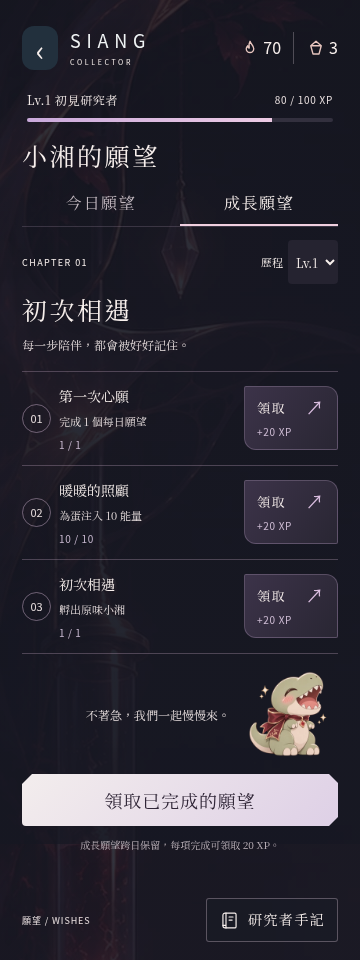
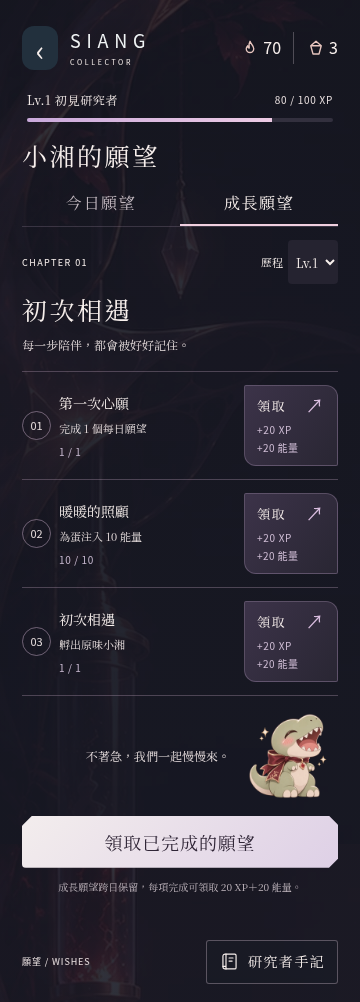
Award growth energy with one-time legacy backfill

diff --git a/js/app.js b/js/app.js
@@ -4,7 +4,7 @@ import { loadState, updateState, resetState, newEgg } from './state.js';
 import { createRoom, residentsFor, saveResidents, welcomeResident, ROOM_KEY, ROOM_LIMIT } from './room.js';
 import { WISH_REWARD, PASS_RATIO, wishesFor, todayKey, analyzePhoto } from './wishes.js';
 import { createMissions } from './missions.js';
-import { DAILY_XP, GROWTH_XP, XP_PER_LEVEL, playerLevel, rankTitle, ensureDaily, completeDaily, growthGoals, goalProgress, claimGrowth } from './progression.js';
+import { DAILY_XP, GROWTH_XP, GROWTH_ENERGY, XP_PER_LEVEL, playerLevel, rankTitle, ensureDaily, completeDaily, growthGoals, goalProgress, claimGrowth } from './progression.js';
 import { PRESENTER_KEY, selectedPresenter, presenterCopy } from './wish-presenter.js';
 
 const $ = (id) => document.getElementById(id);
@@ -24,7 +24,8 @@ function daysSince(iso) {
   return Math.max(0, Math.floor((Date.now() - new Date(iso).getTime()) / 86400000));
 }
 
-let state = (await updateState(() => {})).state;
+const initialSave = await updateState(() => {});
+let state = initialSave.state;
 if (!state.egg) state.egg = newEgg('ordinary'); // 培育槽不留空：孵完就送來下一顆
 let eggView = null;
 let displayedEggId = null;
@@ -250,8 +251,9 @@ function renderGrowth() {
     const count = document.createElement('p'); count.className = 'growth-goal__progress'; count.textContent = `${progress.current} / ${goal.target}`; content.append(count);
     if (progress.claimed) { const label = document.createElement('span'); label.textContent = '✓ 已領取'; status.append(label); }
     else if (progress.complete) {
-      const claim = document.createElement('button'); claim.type = 'button'; claim.className = 'growth-claim'; claim.dataset.goal = goal.id; claim.setAttribute('aria-label', `領取 ${goal.title}的 ${GROWTH_XP} XP 獎勵`);
+      const claim = document.createElement('button'); claim.type = 'button'; claim.className = 'growth-claim'; claim.dataset.goal = goal.id; claim.setAttribute('aria-label', `領取 ${goal.title}的 ${GROWTH_XP} XP 與 ${GROWTH_ENERGY} 能量獎勵`);
       const reward = document.createElement('span'); reward.className = 'growth-claim__reward'; reward.textContent = `+${GROWTH_XP} XP`;
+      const energy = document.createElement('span'); energy.className = 'growth-claim__energy'; energy.textContent = `+${GROWTH_ENERGY} 能量`; reward.append(energy);
       const action = document.createElement('span'); action.className = 'growth-claim__action'; action.textContent = '領取';
       const arrow = document.createElement('span'); arrow.className = 'growth-claim__arrow'; arrow.textContent = '↗'; arrow.setAttribute('aria-hidden', 'true');
       action.append(arrow); claim.append(action, reward); claim.disabled = claimBusy; status.append(claim);
@@ -687,7 +689,7 @@ $('growth-list').addEventListener('click', async event => {
   try {
     const transaction = await updateState(current => claimGrowth(current, chapter, button.dataset.goal));
     state = transaction.state; renderAll();
-    if (transaction.result.awarded) { $('growth-feedback').textContent = `心願達成，獲得 ${GROWTH_XP} XP。`; announceLevel(transaction.result); buzz([15, 30, 25]); }
+    if (transaction.result.awarded) { $('growth-feedback').textContent = `心願達成，獲得 ${GROWTH_XP} XP 與 ${GROWTH_ENERGY} 能量。`; announceLevel(transaction.result); buzz([15, 30, 25]); }
   } finally { claimBusy = false; state = loadState(); renderAll(); $('growth-list').querySelector(`[data-goal-row="${button.dataset.goal}"]`)?.focus({ preventScroll: true }); }
 });
 $('growth-action').addEventListener('click', () => {
@@ -811,6 +813,10 @@ $('reset-btn').addEventListener('click', () => {
 
 renderAll();
 showView(VIEWS.includes(location.hash.slice(1)) ? location.hash.slice(1) : 'home', { replace: true });
+if (initialSave.growthEnergyAdded > 0) {
+  $('growth-feedback').textContent = `先前已完成的成長願望，已補發 ${initialSave.growthEnergyAdded} 能量。`;
+  toast(`成長願望獎勵更新，已補發 ${initialSave.growthEnergyAdded} 能量。`);
+}
 if (!state.seenIntro) { $('intro').showModal(); syncRoomActivity(); }
 
 setInterval(() => { if (!document.hidden && state.wishes.date !== todayKey()) void updateState(() => {}).then(transaction => { state = transaction.state; renderAll(); }); }, 30000);

diff --git a/js/progression.js b/js/progression.js
@@ -1,6 +1,7 @@
 import { todayKey, wishesFor, WISH_REWARD, WISH_POOL } from './wishes.js';
 export const DAILY_XP = 10;
 export const GROWTH_XP = 20;
+export const GROWTH_ENERGY = 20;
 export const XP_PER_LEVEL = 100;
 const count = value => Number.isSafeInteger(value) && value >= 0 ? value : 0;
 const unique = values => [...new Set(Array.isArray(values) ? values.filter(v => typeof v === 'string') : [])];
@@ -20,9 +21,9 @@ export function hydrateProgression(state) {
   const oldDone = state.wishes?.date === todayKey() ? unique(state.wishes.done).filter(id => wishesFor(todayKey()).some(w => w.id === id)) : [];
   const old = state.player;
   if (!old || old.version !== 1) {
-    state.player = { version: 1, xp: 0, claimed: [], stats: { wishes: oldDone.length, fed: Math.max(count(state.egg?.warmth), state.hatched > 0 ? 10 : 0), colors: oldDone, days: oldDone.length ? [todayKey()] : [] } };
+    state.player = { version: 1, xp: 0, claimed: [], energyClaimed: [], stats: { wishes: oldDone.length, fed: Math.max(count(state.egg?.warmth), state.hatched > 0 ? 10 : 0), colors: oldDone, days: oldDone.length ? [todayKey()] : [] } };
   } else {
-    state.player = { ...old, xp: count(old.xp), claimed: unique(old.claimed), stats: { wishes: count(old.stats?.wishes), fed: count(old.stats?.fed), colors: unique(old.stats?.colors).filter(id => WISH_POOL.some(w => w.id === id)), days: unique(old.stats?.days) } };
+    state.player = { ...old, xp: count(old.xp), claimed: unique(old.claimed), energyClaimed: unique(old.energyClaimed), stats: { wishes: count(old.stats?.wishes), fed: count(old.stats?.fed), colors: unique(old.stats?.colors).filter(id => WISH_POOL.some(w => w.id === id)), days: unique(old.stats?.days) } };
   }
   ensureDaily(state);
   return state;
@@ -59,6 +60,15 @@ export function goalProgress(state, goal) {
   else current = count(state.player.stats[goal.metric]);
   return { current: Math.min(current, goal.target), complete: current >= goal.target, claimed: state.player.claimed.includes(goal.id) };
 }
+// Called inside the shared save lock, never as a side effect of reading a save.
+export function reconcileGrowthEnergy(state) {
+  const paid = new Set(state.player.energyClaimed);
+  const missing = state.player.claimed.filter(id => /^growth:[1-9]\d*:[1-3]$/.test(id) && !paid.has(id));
+  state.player.energyClaimed.push(...missing);
+  const amount = missing.length * GROWTH_ENERGY;
+  state.energy += amount;
+  return amount;
+}
 export function claimGrowth(state, level, id) {
   if (!Number.isSafeInteger(level) || level < 1 || level > playerLevel(state)) return { awarded: false };
   const goal = growthGoals(level).goals.find(g => g.id === id);
@@ -68,5 +78,9 @@ export function claimGrowth(state, level, id) {
   const levelBefore = playerLevel(state);
   state.player.claimed.push(id);
   state.player.xp += GROWTH_XP;
+  if (!state.player.energyClaimed.includes(id)) {
+    state.energy += GROWTH_ENERGY;
+    state.player.energyClaimed.push(id);
+  }
   return { awarded: true, levelBefore };
 }

diff --git a/index.html b/index.html
@@ -135,7 +135,7 @@
       <div class="chapter-top"><span id="chapter-number">CHAPTER 01</span><label class="chapter-history">歷程 <select id="chapter-select" aria-label="查看已解鎖等級的成長願望"></select></label></div><h2 class="chapter-title" id="chapter-title"></h2><p class="chapter-caption">每一步陪伴，都會被好好記住。</p>
       <div id="growth-list" class="growth-list"></div>
       <div class="growth-companion"><p>不著急，我們一起慢慢來。</p><img src="assets/mascot/dinosaur-idle.webp" alt="陪伴你的小恐龍" width="512" height="512"></div>
-      <button class="btn" id="growth-action" type="button">前往培育</button><p class="wish-private">成長願望跨日保留，每項完成可領取 20 XP。</p><p id="growth-feedback" class="growth-feedback" role="status" aria-live="polite"></p>
+      <button class="btn" id="growth-action" type="button">前往培育</button><p class="wish-private">成長願望跨日保留，每項完成可領取 20 XP＋20 能量。</p><p id="growth-feedback" class="growth-feedback" role="status" aria-live="polite"></p>
     </section>
   </main>
 

diff --git a/js/state.js b/js/state.js
@@ -1,4 +1,4 @@
-import { hydrateProgression } from './progression.js';
+import { hydrateProgression, reconcileGrowthEnergy } from './progression.js';
 // 遊戲進度存在手機本機（Phase 2 會加上備份到私人 repo）
 const KEY = 'siang-collector:v1';
 let volatileState = null;
@@ -50,9 +50,10 @@ export function resetState() {
 export async function updateState(mutator) {
   const commit = () => {
     const state = loadState();
+    const growthEnergyAdded = reconcileGrowthEnergy(state);
     const result = mutator(state);
     saveState(state);
-    return { state, result };
+    return { state, result, growthEnergyAdded };
   };
   return globalThis.navigator?.locks ? navigator.locks.request('siang-game-save', commit) : commit();
 }

diff --git a/css/wishes-game.css b/css/wishes-game.css
@@ -85,3 +85,5 @@
 .mission-rewards { margin-bottom:10px; }
 body[data-view="wish"] .game-footer { min-height:70px; padding-top:8px; padding-bottom:calc(var(--safe-bottom) + 18px); }
 @media(max-height:700px) { .wish-character-scene { height:180px; } }
+
+.growth-claim .growth-claim__energy { display:block; margin:3px 0 0; color:inherit; font:inherit; letter-spacing:.04em; }

diff --git a/docs/WISHES_PROGRESSION.md b/docs/WISHES_PROGRESSION.md
@@ -6,7 +6,7 @@
 
 - 每日三個不同顏色願望，沿用日期種子、90 組創意名稱與台詞、25% HSV 顏色比例判定。每項完成給 **35 能量＋10 XP**，每天最多三次；照片仍只在本機處理，不上傳、不儲存。
 - 新增玩家「研究者等級」，Lv.1 起始；每累計 **100 XP 升一級**，溢出的 XP 保留。這不是小湘角色年齡、等級或好感度，不改寫原有角色成長條件。
-- 每級有三個不同的「成長願望」，每項達成後可手動領取 **20 XP**，不額外發能量。每個目標只領一次。升級只看 XP，不要求把該級三項全部完成；未完成／未領取的舊級目標永久保留，可在「歷程」選擇已解鎖等級。
+- 每級有三個不同的「成長願望」，每項達成後可手動領取 **20 XP＋20 能量**。每個目標只領一次。升級只看 XP，不要求把該級三項全部完成；未完成／未領取的舊級目標永久保留，可在「歷程」選擇已解鎖等級。
 - 願望完成、培育、孵化的計數可同步推進成長目標；普通點擊、重整、重複打招呼或切換角色不發 XP。沒有連續登入、指定稀有角色、GPS、天氣或未實作的人工審核門檻。
 
 | 級別 | 章節 | 三個目標 |
@@ -35,6 +35,7 @@
 ```text
 player.version = 1
 player.xp = 累計 XP
+player.energyClaimed = 已發放成長能量的獨立識別碼（含舊任務補發）
 player.claimed = 已領取的 growth:<level>:<slot> 識別碼
 player.stats = { wishes, fed, colors, days }
 ```
@@ -47,9 +48,10 @@ player.stats = { wishes, fed, colors, days }
 
 ## 驗證
 
-- `node tests/progression.test.mjs`：5 項規則測試，涵蓋舊存檔、不重發獎、每日累計、成長資格／唯一 id、升級與跨日保留。
+- `node tests/progression.test.mjs`：6 項規則測試，涵蓋舊存檔、不重發獎、每日累計、成長資格／唯一 id、升級與跨日保留。
 - `tests/wishes.cjs`：360／390／430px、844／612 高度；角色切換前後遊戲 JSON 不變、選擇刷新保留、未收集角色不可選、任務固定、XP 領取、升級、舊章節、鍵盤頁籤、跨日。
-- 真實 Chromium 多分頁：兩個相機請求等待同一把存檔鎖，只發一次 35 能量與 10 XP；成長領獎與培育同時執行不覆蓋對方結果；兩分頁領取同一成長目標只發一次 XP。
+- 真實 Chromium 多分頁：兩個相機請求等待同一把存檔鎖，只發一次 35 能量與 10 XP；成長領獎與培育同時執行不覆蓋對方結果；兩分頁領取同一成長目標只發一次 XP 與能量。
+- `tests/reward-migration.cjs`：兩分頁同時載入舊成長紀錄與重整，只補發一次能量，不重發 XP 或修改蛋。
 - 瀏覽器時鐘跨午夜：舊相機輸入不發能量或 XP。
 - `tests/mobile.cjs`：沿用的照片辨色、3×35、刷新保存、培育、孵化與跨日回歸。
 - `tests/room.cjs`、`tests/interaction.cjs`：住戶、原遊戲進度、動畫、打招呼與返回回歸。
@@ -72,3 +74,5 @@ node tests/interaction.cjs
 ```
 
 可用 `CHROMIUM_ONLY=1` 只跑 Chromium，`CHROMIUM_PATH=/usr/bin/chromium` 使用系統瀏覽器，`NODE_PATH` 指向預裝 Playwright。
+
+成長能量更新：先前已領取 XP 的有效成長願望，在共享存檔鎖內補發每項 20 能量，記錄 energyClaimed；不重發 XP，刷新與跨分頁不重複補發。單純讀取存檔不發放獎勵。

diff --git a/README.md b/README.md
@@ -20,7 +20,7 @@
 - 從日常首頁前往「培育」，點蛋注入能量 → 生命訊號滿了點蛋破殼 → 分析過場 → 揭曉小湘 → 收進黑影圖鑑
 - 首頁可安排最多三位已收集的小湘入住，角色點擊可打招呼；原味小湘保留待機、走路與坐姿動畫。其他角色素材未交付，先使用 Q 版人形剪影
 - 孵完回首頁、有空位時自動入住，並在培育頁送來下一顆蛋；孵到重複的小湘會換成化石碎片
-- 每天三個新願望：每項 35 能量＋10 XP；100 XP 升一級，每級另有三項跨日保留的成長願望，每項可領一次 20 XP
+- 每天三個新願望：每項 35 能量＋10 XP；100 XP 升一級，每級另有三項跨日保留的成長願望，每項可領一次 20 XP＋20 能量
 - 願望頁可切換已收集的小湘；只換造型與語氣，不重置任務或進度
 
 暫定內容（等確認後替換）：No.002–004 三隻小湘的名單、普通蛋借用本源蛋改色。
